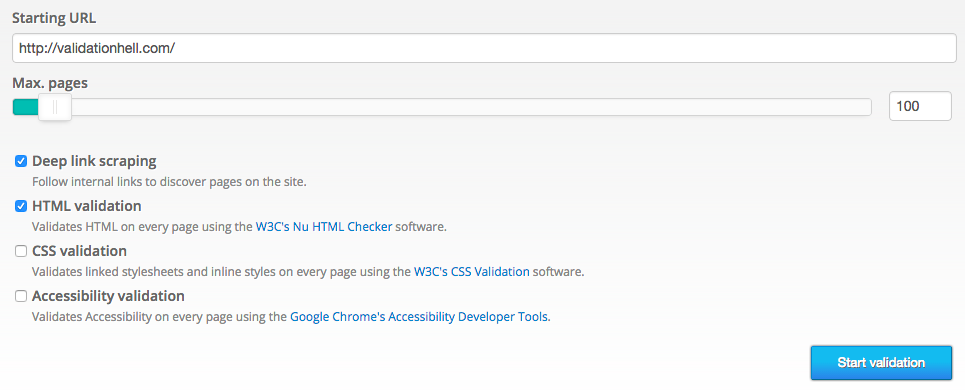
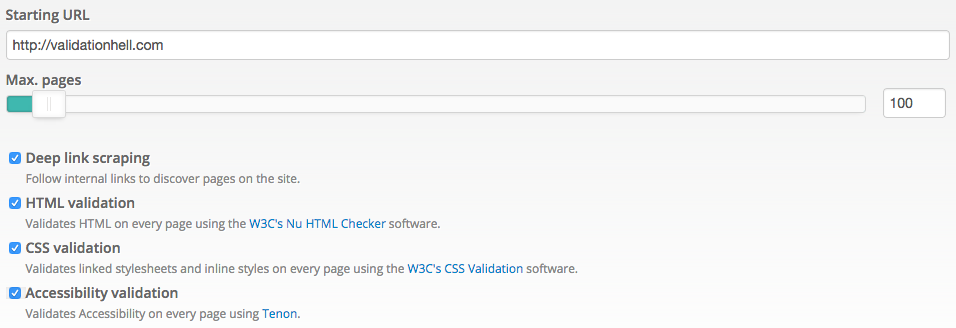
removes section about ADT

diff --git a/docs/site-wide-validation.md b/docs/site-wide-validation.md
@@ -25,7 +25,7 @@ We use the [W3C CSS Validation Service](https://jigsaw.w3.org/css-validator/), h
 
 ## Accessibility Validation
 
-Site Validator lets you validate Accessibility on large sites by integrating with two of the leading tools in A11Y validation: <a href="http://tenon.io">Tenon</a> and Google's <a href="https://github.com/GoogleChrome/accessibility-developer-tools/wiki/Audit-Rules">Accessibility Developer Tools</a>.
+Site Validator lets you validate Accessibility on large sites by integrating with the leading tool in A11Y validation: <a href="http://tenon.io">Tenon</a>.
 
 ### Tenon integration
 
@@ -34,66 +34,6 @@ Tenon is the most complete A11Y checker, and currently implements 90 different c
 Tenon is a paid service (<a href="http://tenon.io/pricing.php">see pricing</a>) so to integrate it into your Site Validator account you'll need to register in order to get a <a href="http://tenon.io/apikey.php">Tenon API Key</a>. When you've got one, you just need to <a href="https://app.sitevalidator.com/users/edit">enter it into your Site Validator account</a>.
 
 Tenon has a free tier but as it's limited to 50 checks per month you're encouraged to upgrade to a larger plan to be able to validate large sites.
-
-### Accessibility Developer Tools
-
-If you don't have a Tenon API Key you can still check Accessibility on your sites thanks to our integration with Google Chrome's [Accessibility Developer Tools](https://github.com/GoogleChrome/accessibility-developer-tools/wiki/Audit-Rules), hosted on our own servers, for Accessibility checking.
-
-For full descriptions of the audit rules, visit the [Accessibility Developer Tools project wiki](https://github.com/GoogleChrome/accessibility-developer-tools/wiki/Audit-Rules).
-
-Code                       | Title
----------------------------|----------------------------------------------------
-[AX_ARIA_01][AX_ARIA_01]   | Elements with ARIA roles must use a valid, non-abstract ARIA role.
-[AX_ARIA_02][AX_ARIA_02]   | ARIA attributes which refer to other elements by ID should refer to elements which exist in the DOM.
-[AX_ARIA_03][AX_ARIA_03]   | Elements with ARIA roles must have all required attributes for that role.
-[AX_ARIA_04][AX_ARIA_04]   | ARIA state and property values must be valid.
-[AX_ARIA_05][AX_ARIA_05]   | role=main should only appear on significant elements.
-[AX_ARIA_06][AX_ARIA_06]   | aria-owns should not be used if ownership is implicit in the DOM.
-[AX_ARIA_07][AX_ARIA_07]   | An element's ID must not be present in more that one aria-owns attribute at any time.
-[AX_ARIA_08][AX_ARIA_08]   | Elements with ARIA roles must ensure required owned elements are present.
-[AX_ARIA_09][AX_ARIA_09]   | Elements with ARIA roles must be in the correct scope.
-[AX_ARIA_10][AX_ARIA_10]   | This element has an unsupported ARIA attribute.
-[AX_ARIA_11][AX_ARIA_11]   | This element has an invalid ARIA attribute.
-[AX_ARIA_12][AX_ARIA_12]   | This element does not support ARIA roles, states and properties.
-[AX_AUDIO_01][AX_AUDIO_01] | Audio elements should have controls.
-[AX_COLOR_01][AX_COLOR_01] | Text elements should have a reasonable contrast ratio.
-[AX_FOCUS_01][AX_FOCUS_01] | These elements are focusable but either invisible or obscured by another element.
-[AX_FOCUS_02][AX_FOCUS_02] | Elements with onclick handlers must be focusable.
-[AX_FOCUS_03][AX_FOCUS_03] | Avoid positive integer values for tabIndex.
-[AX_HTML_01][AX_HTML_01]   | The web page should have the content's human language indicated in the markup.
-[AX_HTML_02][AX_HTML_02]   | An element's ID must be unique in the DOM.
-[AX_IMAGE_01][AX_IMAGE_01] | Meaningful images should not be used in element backgrounds.
-[AX_TEXT_01][AX_TEXT_01]   | Controls and media elements should have labels.
-[AX_TEXT_02][AX_TEXT_02]   | Images should have an alt attribute.
-[AX_TEXT_04][AX_TEXT_04]   | The purpose of each link should be clear from the link text.
-[AX_TITLE_01][AX_TITLE_01] | The web page should have a title that describes topic or purpose.
-[AX_VIDEO_01][AX_VIDEO_01] | Video elements should use <track> elements to provide captions.
-
-[AX_ARIA_01]: https://github.com/GoogleChrome/accessibility-developer-tools/wiki/Audit-Rules#ax_aria_01
-[AX_ARIA_02]: https://github.com/GoogleChrome/accessibility-developer-tools/wiki/Audit-Rules#ax_aria_02
-[AX_ARIA_03]: https://github.com/GoogleChrome/accessibility-developer-tools/wiki/Audit-Rules#ax_aria_03
-[AX_ARIA_04]: https://github.com/GoogleChrome/accessibility-developer-tools/wiki/Audit-Rules#ax_aria_04
-[AX_ARIA_05]: https://github.com/GoogleChrome/accessibility-developer-tools/wiki/Audit-Rules#ax_aria_05
-[AX_ARIA_06]: https://github.com/GoogleChrome/accessibility-developer-tools/wiki/Audit-Rules#ax_aria_06
-[AX_ARIA_07]: https://github.com/GoogleChrome/accessibility-developer-tools/wiki/Audit-Rules#ax_aria_07
-[AX_ARIA_08]: https://github.com/GoogleChrome/accessibility-developer-tools/wiki/Audit-Rules#ax_aria_08
-[AX_ARIA_09]: https://github.com/GoogleChrome/accessibility-developer-tools/wiki/Audit-Rules#ax_aria_09
-[AX_ARIA_10]: https://github.com/GoogleChrome/accessibility-developer-tools/wiki/Audit-Rules#ax_aria_10
-[AX_ARIA_11]: https://github.com/GoogleChrome/accessibility-developer-tools/wiki/Audit-Rules#ax_aria_11
-[AX_ARIA_12]: https://github.com/GoogleChrome/accessibility-developer-tools/wiki/Audit-Rules#ax_aria_12
-[AX_AUDIO_01]: https://github.com/GoogleChrome/accessibility-developer-tools/wiki/Audit-Rules#ax_audio_01
-[AX_COLOR_01]: https://github.com/GoogleChrome/accessibility-developer-tools/wiki/Audit-Rules#ax_color_01
-[AX_FOCUS_01]: https://github.com/GoogleChrome/accessibility-developer-tools/wiki/Audit-Rules#ax_focus_01
-[AX_FOCUS_02]: https://github.com/GoogleChrome/accessibility-developer-tools/wiki/Audit-Rules#ax_focus_02
-[AX_FOCUS_03]: https://github.com/GoogleChrome/accessibility-developer-tools/wiki/Audit-Rules#ax_focus_03
-[AX_HTML_01]: https://github.com/GoogleChrome/accessibility-developer-tools/wiki/Audit-Rules#ax_html_01
-[AX_HTML_02]: https://github.com/GoogleChrome/accessibility-developer-tools/wiki/Audit-Rules#ax_html_02
-[AX_IMAGE_01]: https://github.com/GoogleChrome/accessibility-developer-tools/wiki/Audit-Rules#ax_image_01
-[AX_TEXT_01]: https://github.com/GoogleChrome/accessibility-developer-tools/wiki/Audit-Rules#ax_text_01
-[AX_TEXT_02]: https://github.com/GoogleChrome/accessibility-developer-tools/wiki/Audit-Rules#ax_text_02
-[AX_TEXT_04]: https://github.com/GoogleChrome/accessibility-developer-tools/wiki/Audit-Rules#ax_text_04
-[AX_TITLE_01]: https://github.com/GoogleChrome/accessibility-developer-tools/wiki/Audit-Rules#ax_title_01
-[AX_VIDEO_01]: https://github.com/GoogleChrome/accessibility-developer-tools/wiki/Audit-Rules#ax_video_01
 
 ## Performance tips
 
